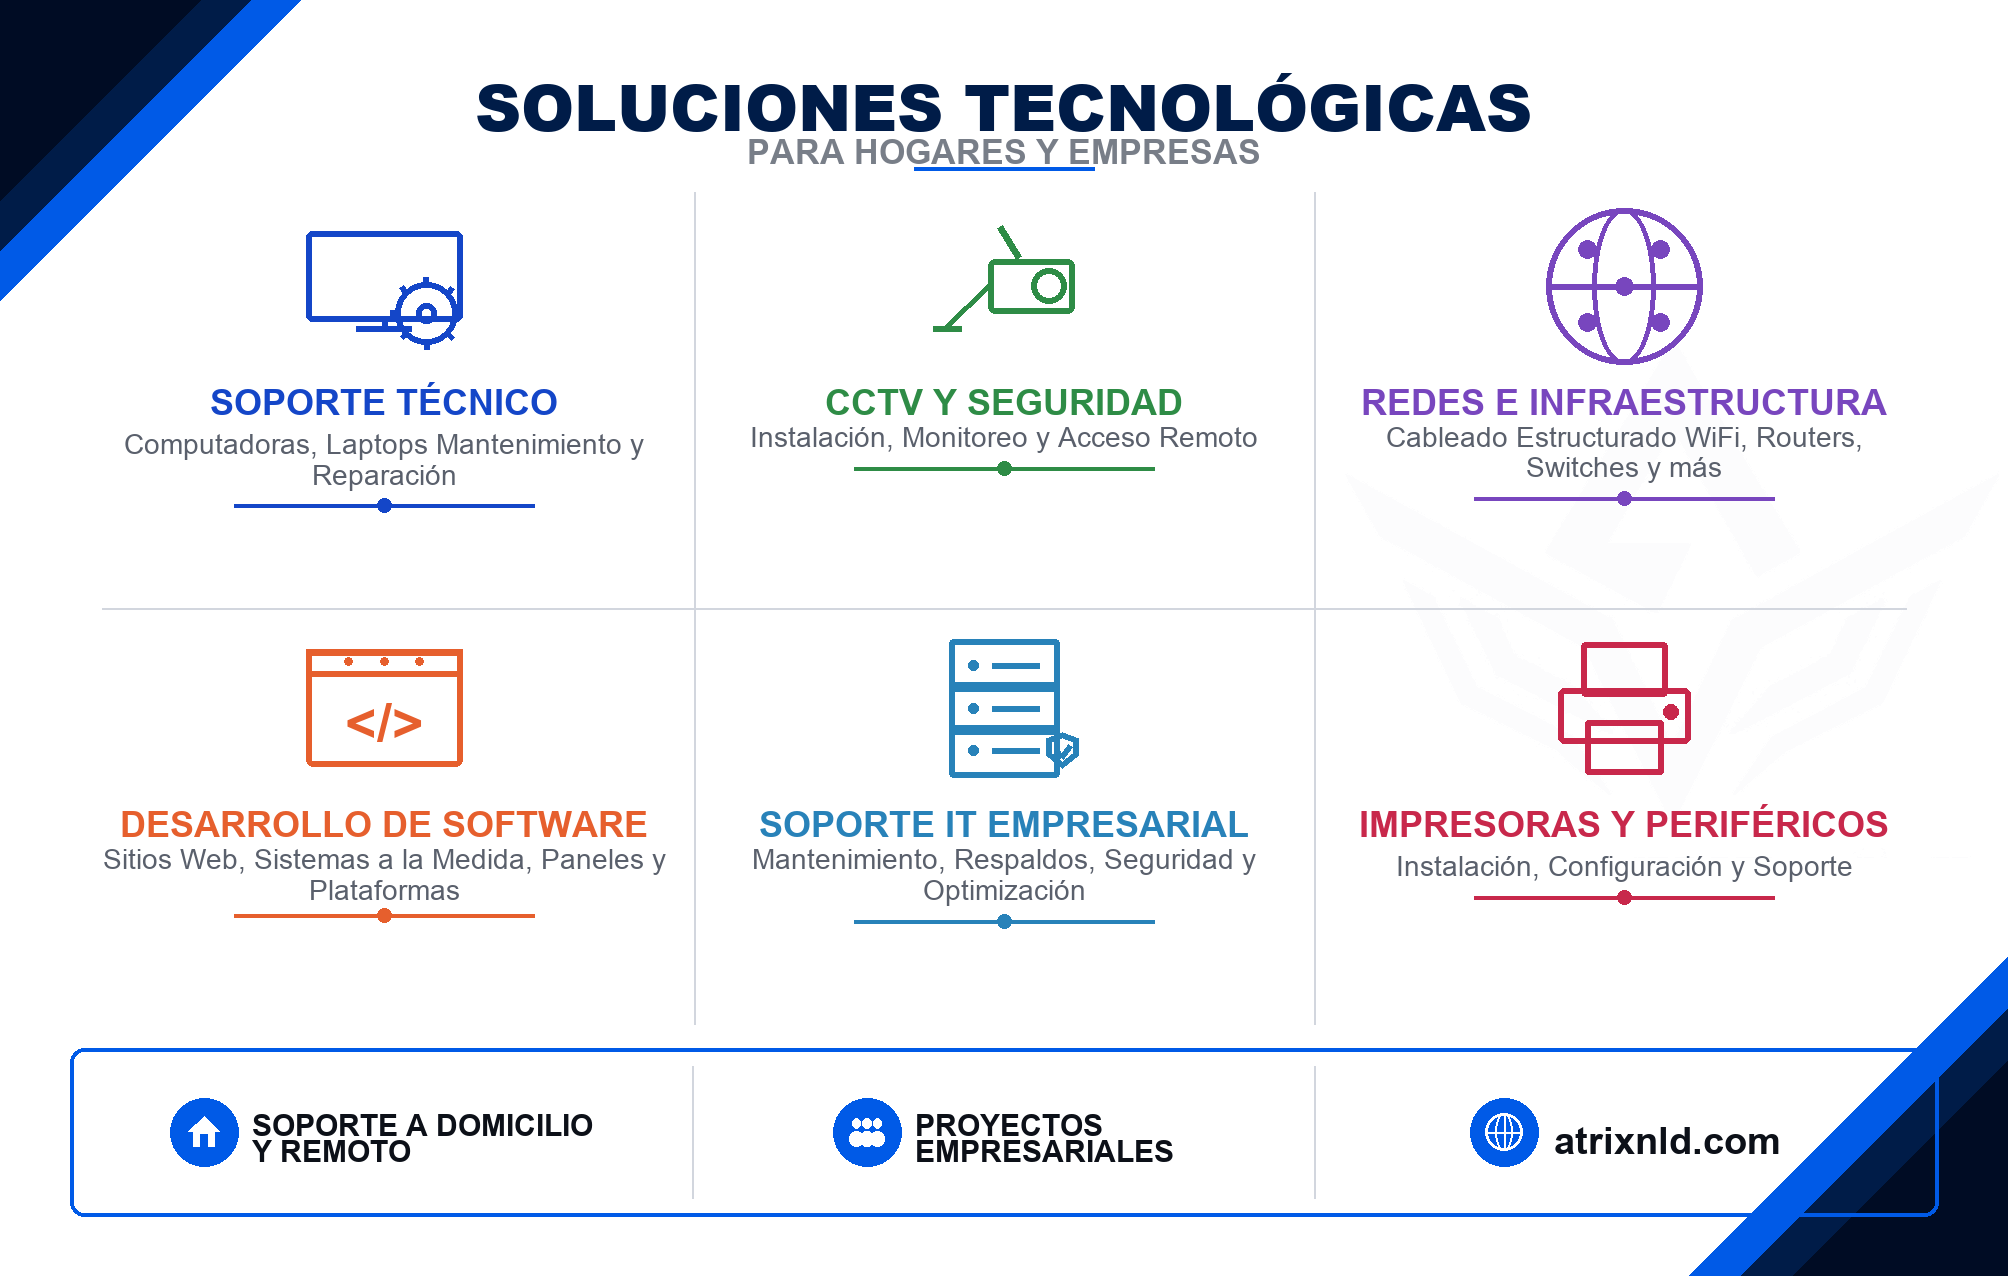
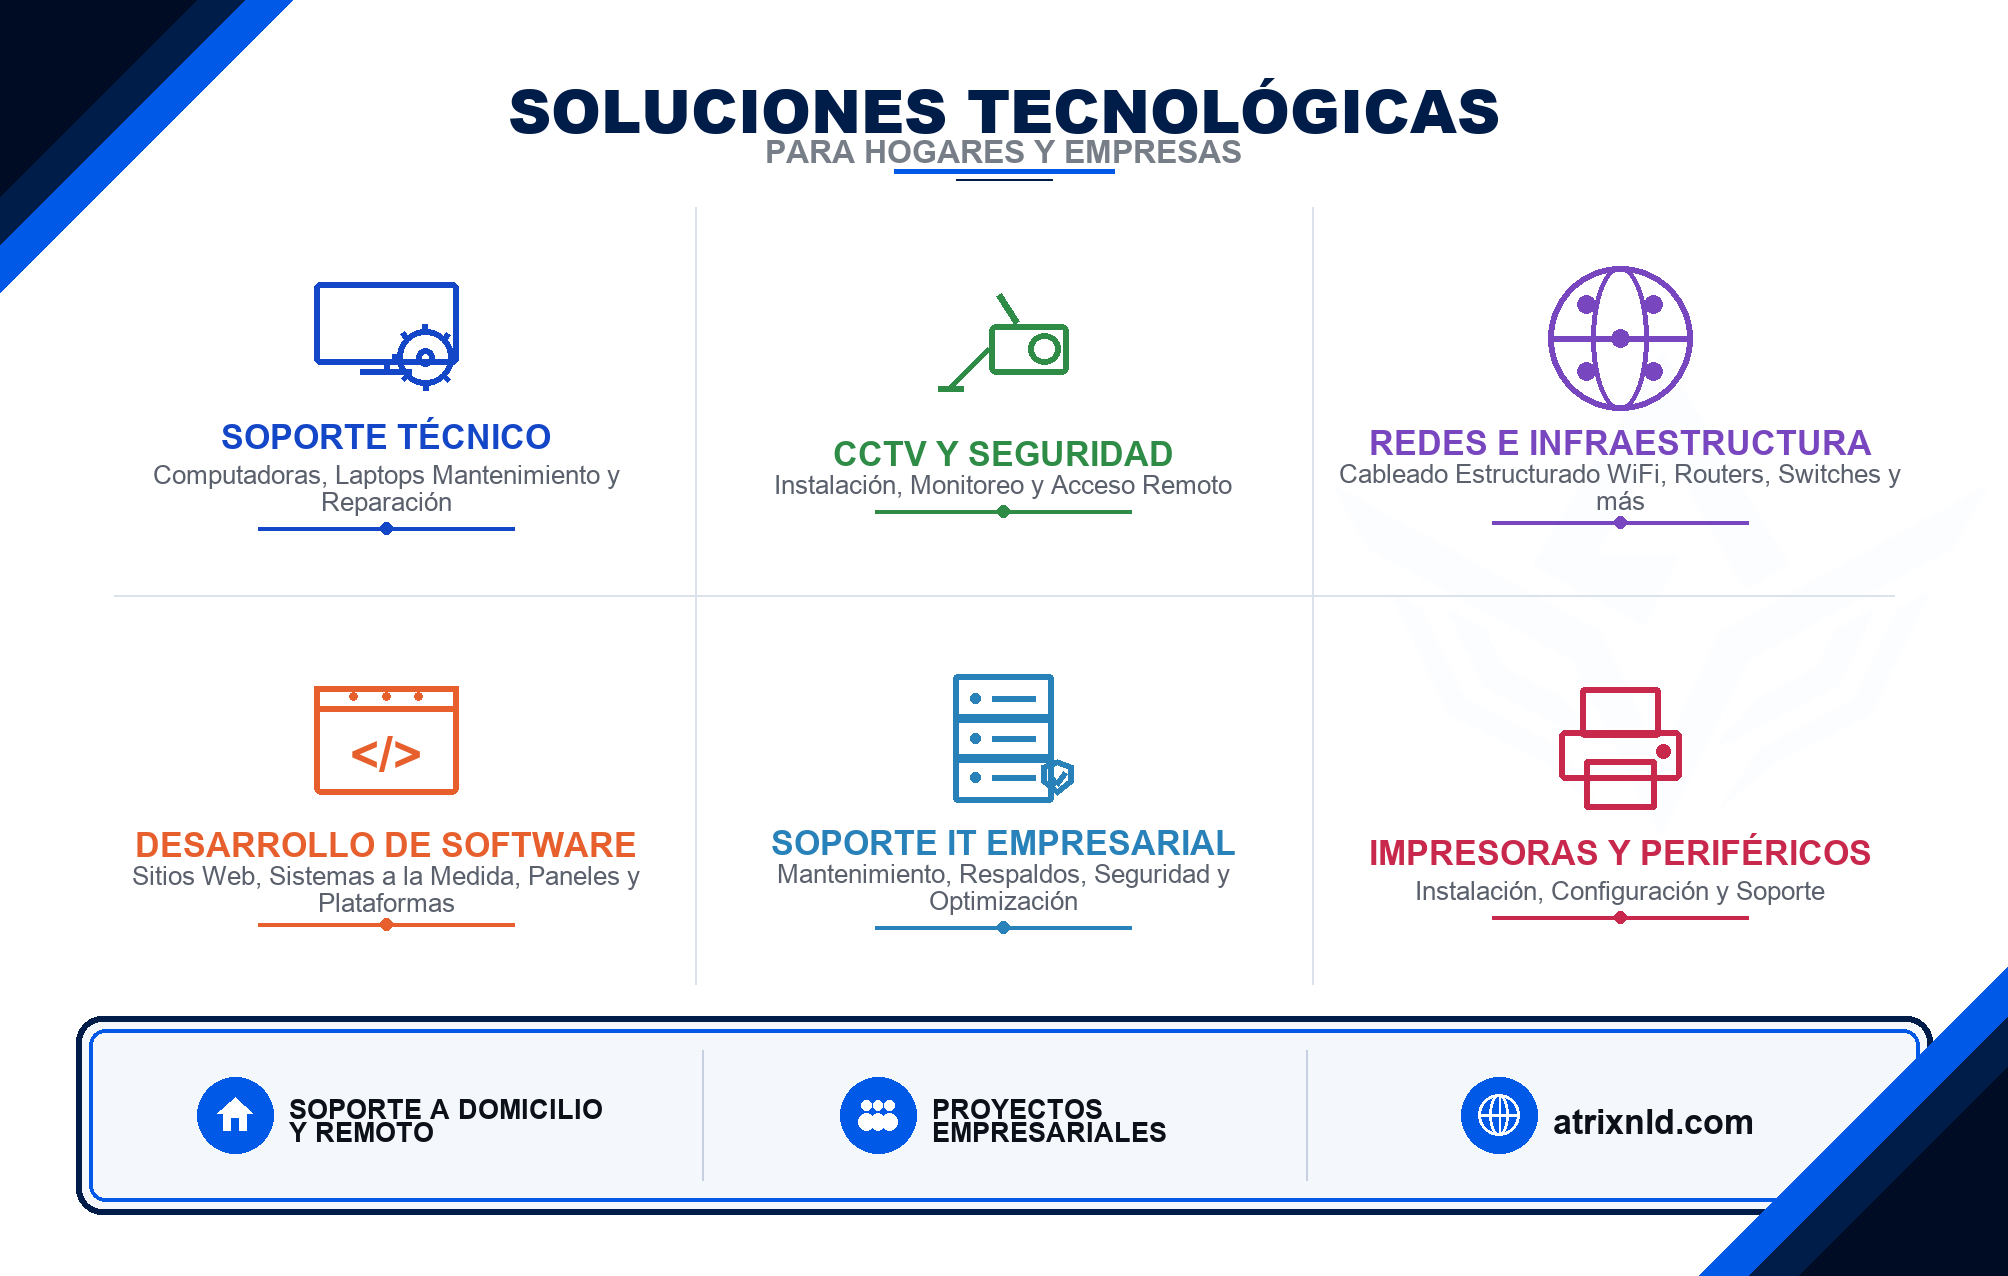
Refine PVC reverse footer band and overall layout polish.
Dual-stroke framed footer with equal thirds and vertically centered icon+text, plus tighter header/grid rhythm for a more professional print card.

diff --git a/scripts/render_business_cards.py b/scripts/render_business_cards.py
@@ -425,29 +425,84 @@ def render_front() -> Image.Image:
     return img
 
 
+def draw_footer_frame(
+    draw: ImageDraw.ImageDraw,
+    x0: int,
+    y0: int,
+    x1: int,
+    y1: int,
+    radius: int = 28,
+) -> None:
+    """Professional dual-stroke footer frame with soft fill (ATRIX corner aesthetic)."""
+    fill = (244, 247, 252)
+    draw.rounded_rectangle((x0, y0, x1, y1), radius=radius, fill=fill)
+    # Outer navy — solid architectural edge
+    draw.rounded_rectangle((x0, y0, x1, y1), radius=radius, outline=NAVY, width=6)
+    # Clear gap + inner blue track (readable dual-line at print scale)
+    inset = 13
+    draw.rounded_rectangle(
+        (x0 + inset, y0 + inset, x1 - inset, y1 - inset),
+        radius=max(12, radius - 10),
+        outline=BLUE,
+        width=4,
+    )
+
+
+def measure_wrapped(
+    draw: ImageDraw.ImageDraw,
+    text: str,
+    fnt: ImageFont.ImageFont,
+    max_w: int,
+    line_gap: int = 4,
+) -> tuple[list[str], int, int]:
+    """Return wrapped lines, block width, and block height."""
+    words = text.split()
+    lines: list[str] = []
+    cur = ""
+    for word in words:
+        trial = f"{cur} {word}".strip()
+        tw, _ = text_size(draw, trial, fnt)
+        if tw <= max_w:
+            cur = trial
+        else:
+            if cur:
+                lines.append(cur)
+            cur = word
+    if cur:
+        lines.append(cur)
+    if not lines:
+        return [], 0, 0
+    widths = [text_size(draw, ln, fnt)[0] for ln in lines]
+    heights = [text_size(draw, ln, fnt)[1] for ln in lines]
+    return lines, max(widths), sum(heights) + line_gap * (len(lines) - 1)
+
+
 def render_back() -> Image.Image:
-    """Reverse: 2×3 service grid fills height between header and footer (print-readable)."""
+    """Reverse: 2×3 service grid + refined footer band (print-readable)."""
     img = Image.new("RGB", (W, H), WHITE)
     draw = ImageDraw.Draw(img)
 
-    wm = load_mark_watermark(780, opacity=11)
-    img.paste(wm, (W - wm.width - 8, (H - wm.height) // 2 - 40), wm)
+    wm = load_mark_watermark(760, opacity=10)
+    img.paste(wm, (W - wm.width - 20, (H - wm.height) // 2 - 28), wm)
 
-    # Match reference: TL + BR corners (no BL)
-    paint_corner(draw, "tl", size=300, band=50)
-    paint_corner(draw, "br", size=320, band=52)
+    # Match reference: TL + BR corners (BR painted again after footer so it overlaps frame)
+    paint_corner(draw, "tl", size=292, band=48)
 
-    title_f = font(FONT_BLACK, 64)
-    sub_f = font(FONT_BOLD, 34)
+    # —— Header ——
+    title_f = font(FONT_BLACK, 60)
+    sub_f = font(FONT_BOLD, 32)
     t1 = "SOLUCIONES TECNOLÓGICAS"
     t2 = "PARA HOGARES Y EMPRESAS"
+    header_top = SAFE + 2
     tw, th1 = text_size(draw, t1, title_f)
-    draw.text(((W - tw) // 2, SAFE - 4), t1, fill=NAVY, font=title_f)
+    draw.text(((W - tw) // 2, header_top), t1, fill=NAVY, font=title_f)
     tw2, th2 = text_size(draw, t2, sub_f)
-    sub_y = SAFE - 4 + th1 + 14
+    sub_y = header_top + th1 + 12
     draw.text(((W - tw2) // 2, sub_y), t2, fill=MUTED, font=sub_f)
-    rule_y = sub_y + th2 + 10
-    draw.line([(W // 2 - 90, rule_y), (W // 2 + 90, rule_y)], fill=BLUE, width=4)
+    rule_y = sub_y + th2 + 14
+    # Dual accent rule under header
+    draw.line([(W // 2 - 110, rule_y), (W // 2 + 110, rule_y)], fill=BLUE, width=5)
+    draw.line([(W // 2 - 48, rule_y + 8), (W // 2 + 48, rule_y + 8)], fill=NAVY, width=2)
 
     services = [
         ("monitor", C_SOPORTE, "SOPORTE TÉCNICO", "Computadoras, Laptops Mantenimiento y Reparación"),
@@ -458,86 +513,113 @@ def render_back() -> Image.Image:
         ("printer", C_PRINT, "IMPRESORAS Y PERIFÉRICOS", "Instalación, Configuración y Soporte"),
     ]
 
-    # Compact footer — sits close under the 2×3 grid (no empty mid band)
-    bar_m = SAFE + 6
-    bar_h = 168
-    bar_y1 = H - SAFE + 4
+    # —— Footer band: equal thirds, circular marks + text as one aligned row ——
+    bar_m = SAFE + 12
+    bar_h = 198
+    bar_y1 = H - SAFE + 2
     bar_y0 = bar_y1 - bar_h
-    grid_top = rule_y + 18
+
+    grid_top = rule_y + 22
     grid_bottom = bar_y0 - 18
-    margin_x = SAFE + 10
+    margin_x = SAFE + 14
     usable_w = W - margin_x * 2
     cols, rows = 3, 2
     cell_w = usable_w // cols
     cell_h = (grid_bottom - grid_top) // rows
 
-    title_font = font(FONT_BOLD, 36)
-    desc_font = font(FONT_REG, 28)
-    icon_s = 78
+    title_font = font(FONT_BOLD, 34)
+    desc_font = font(FONT_REG, 26)
+    icon_s = 72
 
-    # Grid separators
+    # Soft grid separators (inset so they don't collide with corners)
+    sep = (220, 226, 236)
     for c in range(1, cols):
         sx = margin_x + cell_w * c
-        draw.line([(sx, grid_top + 6), (sx, grid_bottom - 6)], fill=LIGHT_GRAY, width=2)
-    mid_x0 = margin_x + 28
-    mid_x1 = margin_x + usable_w - 28
-    mid_y = grid_top + cell_h
-    draw.line([(mid_x0, mid_y), (mid_x1, mid_y)], fill=LIGHT_GRAY, width=2)
+        draw.line([(sx, grid_top + 14), (sx, grid_bottom - 14)], fill=sep, width=2)
+    mid_x0 = margin_x + 36
+    mid_x1 = margin_x + usable_w - 36
+    mid_sep_y = grid_top + cell_h
+    draw.line([(mid_x0, mid_sep_y), (mid_x1, mid_sep_y)], fill=sep, width=2)
 
     for i, (kind, color, title, desc) in enumerate(services):
         row, col = divmod(i, cols)
         x0 = margin_x + col * cell_w
         y0 = grid_top + row * cell_h
         cx = x0 + cell_w // 2
-        # Vertical stack centered in cell: icon → title → desc → accent
-        pad_y = 22
-        icon_y = y0 + pad_y + icon_s
-        text_max_w = cell_w - 36
-        text_top = icon_y + icon_s + 18
-        service_icon(draw, cx, icon_y, kind, color, s=icon_s)
-        ty = wrap_center(draw, title, cx, text_top, title_font, color, text_max_w, line_gap=3)
-        dy = wrap_center(draw, desc, cx, ty + 10, desc_font, GRAY, text_max_w, line_gap=4)
-        line_y = min(dy + 16, y0 + cell_h - 28)
-        accent_w = min(int(cell_w * 0.38), 150)
-        draw.line([(cx - accent_w, line_y), (cx + accent_w, line_y)], fill=color, width=4)
-        draw.ellipse((cx - 7, line_y - 7, cx + 7, line_y + 7), fill=color)
+        text_max_w = cell_w - 44
 
-    draw.rounded_rectangle((bar_m, bar_y0, W - bar_m, bar_y1), radius=14, outline=BLUE, width=4)
+        # Measure stack then center vertically in cell
+        _, _, title_h = measure_wrapped(draw, title, title_font, text_max_w, line_gap=2)
+        _, _, desc_h = measure_wrapped(draw, desc, desc_font, text_max_w, line_gap=3)
+        stack_h = icon_s * 2 + 14 + title_h + 8 + desc_h + 18
+        stack_top = y0 + max(16, (cell_h - stack_h) // 2)
+        icon_y = stack_top + icon_s
+        text_top = icon_y + icon_s + 14
+
+        service_icon(draw, cx, icon_y, kind, color, s=icon_s)
+        ty = wrap_center(draw, title, cx, text_top, title_font, color, text_max_w, line_gap=2)
+        dy = wrap_center(draw, desc, cx, ty + 8, desc_font, GRAY, text_max_w, line_gap=3)
+        line_y = min(dy + 14, y0 + cell_h - 22)
+        accent_w = min(int(cell_w * 0.32), 128)
+        draw.line([(cx - accent_w, line_y), (cx + accent_w, line_y)], fill=color, width=4)
+        draw.ellipse((cx - 6, line_y - 6, cx + 6, line_y + 6), fill=color)
+
+    # —— Footer frame + equal-column content ——
+    draw_footer_frame(draw, bar_m, bar_y0, W - bar_m, bar_y1, radius=26)
+
+    # Content box inside dual stroke
+    stroke_inset = 22
+    content_y0 = bar_y0 + stroke_inset
+    content_y1 = bar_y1 - stroke_inset
+    mid_y = (content_y0 + content_y1) // 2
 
     footer_items = [
-        ("home", "SOPORTE A DOMICILIO\nY REMOTO"),
-        ("people", "PROYECTOS\nEMPRESARIALES"),
-        ("web", "atrixnld.com"),
+        ("home", "SOPORTE A DOMICILIO\nY REMOTO", False),
+        ("people", "PROYECTOS\nEMPRESARIALES", False),
+        ("web", "atrixnld.com", True),
     ]
-    seg_w = (W - 2 * bar_m) // 3
-    foot_f = font(FONT_BOLD, 30)
-    url_f = font(FONT_BOLD, 38)
-    for i, (kind, label) in enumerate(footer_items):
-        cx = bar_m + seg_w * i + seg_w // 2
+    inner_m = bar_m + stroke_inset
+    inner_w = W - 2 * inner_m
+    seg_w = inner_w // 3
+    foot_f = font(FONT_BOLD, 27)
+    url_f = font(FONT_BOLD, 34)
+    icon_r = 38
+    icon_text_gap = 20
+    col_pad = 18
+
+    for i, (kind, label, is_url) in enumerate(footer_items):
+        seg_x0 = inner_m + seg_w * i
         if i > 0:
-            sx = bar_m + seg_w * i
-            draw.line([(sx, bar_y0 + 18), (sx, bar_y1 - 18)], fill=LIGHT_GRAY, width=2)
-        mid_y = (bar_y0 + bar_y1) // 2
-        icon_r = 34
-        if label == "atrixnld.com":
-            block_w = icon_r * 2 + 16 + text_size(draw, label, url_f)[0]
-            icon_cx = cx - block_w // 2 + icon_r
-            circle_icon(draw, icon_cx, mid_y, icon_r, kind)
-            tw, th = text_size(draw, label, url_f)
-            draw.text((icon_cx + icon_r + 16, mid_y - th // 2), label, fill=BLACK, font=url_f)
-        else:
-            lines = label.split("\n")
-            heights = [text_size(draw, ln, foot_f)[1] for ln in lines]
-            total_h = sum(heights) + 4 * (len(lines) - 1)
-            max_line_w = max(text_size(draw, ln, foot_f)[0] for ln in lines)
-            block_w = icon_r * 2 + 14 + max_line_w
-            icon_cx = cx - block_w // 2 + icon_r
-            circle_icon(draw, icon_cx, mid_y, icon_r, kind)
-            tx = icon_cx + icon_r + 14
-            yy = mid_y - total_h // 2
-            for ln in lines:
-                draw.text((tx, yy), ln, fill=BLACK, font=foot_f)
-                yy += text_size(draw, ln, foot_f)[1] + 4
+            sx = seg_x0
+            draw.line(
+                [(sx, content_y0 + 12), (sx, content_y1 - 12)],
+                fill=(198, 208, 224),
+                width=2,
+            )
+
+        fnt = url_f if is_url else foot_f
+        lines = label.split("\n")
+        heights = [text_size(draw, ln, fnt)[1] for ln in lines]
+        line_gap = 3
+        total_h = sum(heights) + line_gap * (len(lines) - 1)
+        max_line_w = max(text_size(draw, ln, fnt)[0] for ln in lines)
+
+        # Icon + text as one unit, centered in the column (balanced band)
+        block_w = icon_r * 2 + icon_text_gap + max_line_w
+        max_block = seg_w - 2 * col_pad
+        if block_w > max_block:
+            block_w = max_block
+        block_left = seg_x0 + (seg_w - block_w) // 2
+        icon_cx = block_left + icon_r
+        circle_icon(draw, icon_cx, mid_y, icon_r, kind)
+        tx = icon_cx + icon_r + icon_text_gap
+        yy = mid_y - total_h // 2
+        for ln in lines:
+            draw.text((tx, yy), ln, fill=BLACK, font=fnt)
+            yy += text_size(draw, ln, fnt)[1] + line_gap
+
+    # Brand corner sits over the footer frame (reference look)
+    paint_corner(draw, "br", size=310, band=50)
 
     return img
 

diff --git a/assets/source-cards/PREVIEW_COMPARISON.md b/assets/source-cards/PREVIEW_COMPARISON.md
@@ -3,5 +3,5 @@
 - Print size: **8.5 × 5.4 cm** → **2008 × 1276 px @ 600 DPI**
 - Outputs: `public/brand/tarjeta-atrix-frente.png`, `public/brand/tarjeta-atrix-reverso.png`
 - Front matches reference: TL/BR corner shards, right-pointing navy+blue chevron, stacked ATRIX logo left, contact right with blue title underline + circular icons, faint mark watermark
-- Back: header, **2×3** colored service grid (icon → title → desc → accent), footer bar close under grid, TL/BR corners, watermark
+- Back: header with dual accent rule, **2×3** service grid (vertically centered stacks), dual-stroke footer band (navy outer + blue inner, soft fill, equal thirds with icon+text vertically centered), TL/BR corners (BR overlaps footer), watermark
 - 2×3 chosen for PVC readability at 8.5×5.4 cm (6 skinny columns were unreadable); ~2.7 mm safe trim margin
